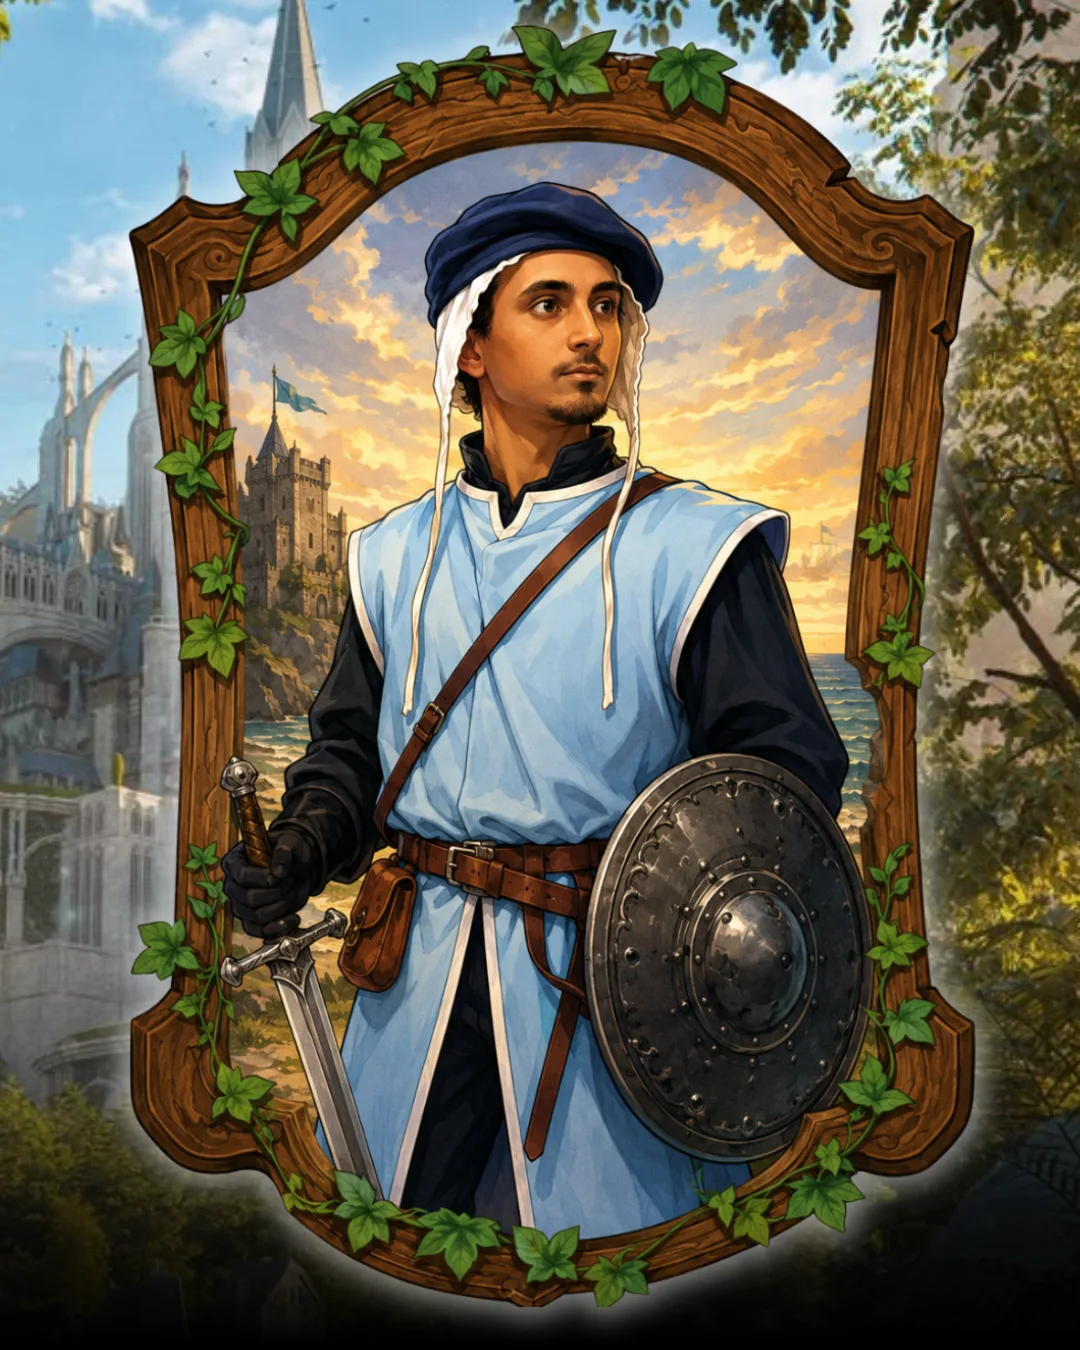
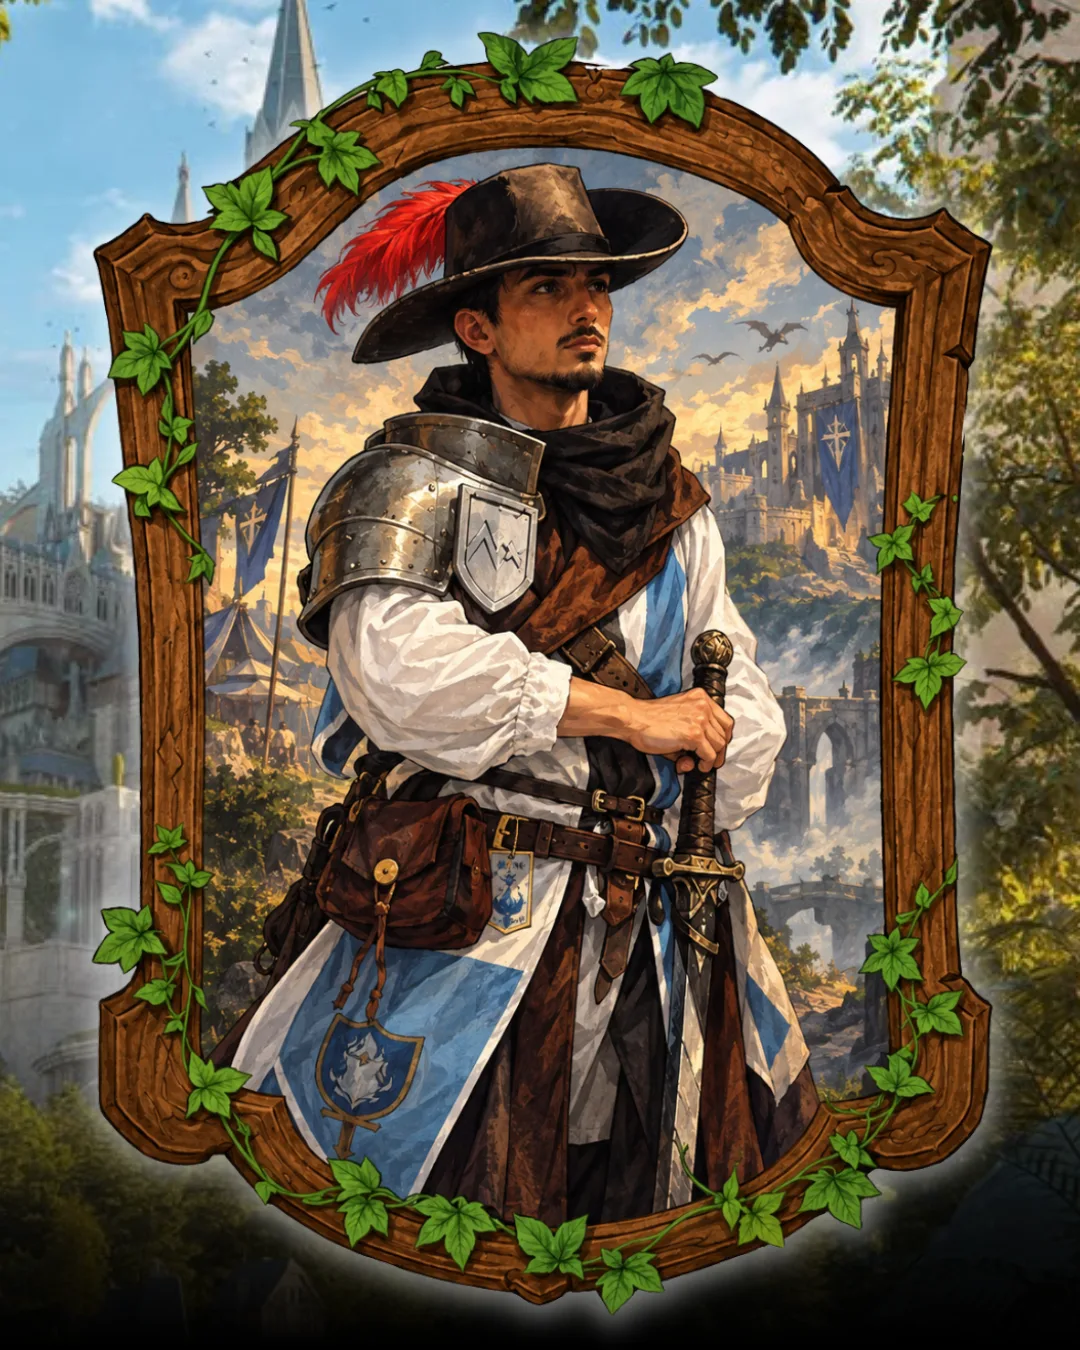
update

diff --git a/index.html b/index.html
@@ -482,6 +482,10 @@
   
   
   
+  
+  
+  
+  
   <section id="section-_recurring-characters" class="panel-section">
     <h3 class="panel-title">
       🎭 Personaggi Ricorrenti
@@ -507,7 +511,7 @@
     <img src="/rhymil_images/_thumb/other_morriver.webp?v=278d4e69" width="110" alt="John Morriver" loading="lazy" />
   </a>
 
-  <a href="/rhymil_images/_large/other_nox.webp?v=879d7c04" title="Nox" data-name="Nox" data-owner="master Bea" data-quote="Chi non supera i limiti non sa fare scienza. Continuate a vivere nell&#39;ignoranza, stolti!" data-desc="Changeling alchimista che ha preso il posto del Capitano Vane per 16 anni, prima di provare a prendere il controllo della nuova fratellanza e cadere nel tentativo. Assetato di vendetta, cinico, maniaco della perfezione e genialmente folle, ora è tornato come non-morto e collabora con Lucian Vorhan.">
+  <a href="/rhymil_images/_large/other_nox.webp?v=879d7c04" title="Nox" data-name="Nox" data-owner="master Bea" data-quote="Chi non supera i limiti non sa fare scienza. Continuate a vivere nell&#39;ignoranza, stolti!" data-desc="Changeling alchimista che ha preso il posto del Capitano Vane per 16 anni, prima di provare a prendere il controllo della nuova fratellanza e cadere nel tentativo. Assetato di vendetta, cinico, maniaco della perfezione e genialmente folle, ora è tornato come non-morto e collabora con l&#39;alchimista Rosso Lucian.">
     <span class="thumb-name">Nox</span>
     <img src="/rhymil_images/_thumb/other_nox.webp?v=faaf9fdc" width="110" alt="Nox" loading="lazy" />
   </a>
@@ -546,10 +550,19 @@
     <span class="thumb-name">Rahira</span>
     <img src="/rhymil_images/_thumb/other_rahira.webp?v=24b35703" width="110" alt="Rahira" loading="lazy" />
   </a>
+
+  <a href="/rhymil_images/_large/other_boniemme.webp?v=448d7be3" title="Lady Boniemme " data-name="Lady Boniemme " data-owner="master Jenny" data-quote="Tutti hanno un prezzo">
+    <span class="thumb-name">Lady Boniemme </span>
+    <img src="/rhymil_images/_thumb/other_boniemme.webp?v=9d968fe8" width="110" alt="Lady Boniemme " loading="lazy" />
+  </a>
     </div>
   </section>
 
 
+  
+  
+  
+  
   
   
   
@@ -807,6 +820,10 @@
   
   
   
+  
+  
+  
+  
   <section id="section-stato-del-popolo-libero" class="panel-section">
     <h3 class="panel-title">
       ✊ Stato del Popolo Libero
@@ -951,6 +968,10 @@
   
   
   
+  
+  
+  
+  
   <section id="section-terre-barbariche" class="panel-section">
     <h3 class="panel-title">
       🏺 Terre Barbariche
@@ -979,6 +1000,11 @@
   <a href="/rhymil_images/_large/tribu_gylfy.webp?v=cecf57c0" title="Gylfy Skvirodsson" data-name="Gylfy Skvirodsson" data-owner="Francesco Fava" data-quote="Chi sono io? Mmm... chi lo vuole sapere?">
     <span class="thumb-name">Gylfy</span>
     <img src="/rhymil_images/_thumb/tribu_gylfy.webp?v=0ddadd59" width="110" alt="Gylfy Skvirodsson" loading="lazy" />
+  </a>
+
+  <a href="/rhymil_images/_large/tribu_ykir.webp?v=bea5f660" title="Ykir" data-name="Ykir" data-owner="Orso" data-desc="Un barbaro con personalità multiple">
+    <span class="thumb-name">Ykir</span>
+    <img src="/rhymil_images/_thumb/tribu_ykir.webp?v=1198a383" width="110" alt="Ykir" loading="lazy" />
   </a>
   <a class="thumb-add" href="https://forms.gle/bpCPzV4x4QBi88eN8" target="_blank" rel="noopener" aria-label="Aggiungi il tuo PG">
     <span class="icon solid fa-user-plus"></span>
@@ -1025,6 +1051,10 @@
   </section>
 
           
+  
+  
+  
+  
   
   
   
@@ -1134,6 +1164,10 @@
   </section>
 
           
+  
+  
+  
+  
   
   
   
@@ -1303,6 +1337,10 @@
   
   
   
+  
+  
+  
+  
   <section id="section-ordine-dei-paladini" class="panel-section">
     <h3 class="panel-title">
       🛡 Ordine dei Paladini
@@ -1338,9 +1376,9 @@
     <img src="/rhymil_images/_thumb/paladini_delphine.webp?v=dd01b85a" width="110" alt="Delphine Belinfer" loading="lazy" />
   </a>
 
-  <a href="/rhymil_images/_large/paladini_quil.webp?v=224dcc32" title="Quil Valtheris" data-name="Quil Valtheris" data-owner="Emanuele Stramare">
+  <a href="/rhymil_images/_large/paladini_quil.webp?v=df5ca5e6" title="Quil Valtheris" data-name="Quil Valtheris" data-owner="Emanuele Stramare">
     <span class="thumb-name">Quil</span>
-    <img src="/rhymil_images/_thumb/paladini_quil.webp?v=a56fa1c6" width="110" alt="Quil Valtheris" loading="lazy" />
+    <img src="/rhymil_images/_thumb/paladini_quil.webp?v=df067429" width="110" alt="Quil Valtheris" loading="lazy" />
   </a>
   <a class="thumb-add" href="https://forms.gle/bpCPzV4x4QBi88eN8" target="_blank" rel="noopener" aria-label="Aggiungi il tuo PG">
     <span class="icon solid fa-user-plus"></span>
@@ -1417,6 +1455,10 @@
   
   
   
+  
+  
+  
+  
   <section id="section-ordine-dei-cavalieri" class="panel-section">
     <h3 class="panel-title">
       ⚔ Ordine dei Cavalieri
@@ -1440,6 +1482,16 @@
   <a href="/rhymil_images/_large/cavalieri_eryndal.webp?v=040b6ebc" title="Eryndal Thalen" data-name="Eryndal Thalen" data-owner="Offi Christopher" data-quote="La Luce mi guidi, se le mie mani tramano." data-desc="Lui era un cavaliere senza coraggio, ma con più fede di qualunque paladino. Nella paura, era guidato dalla speranza: la speranza di farcela, di resistere, di ritrovare ciò che aveva perduto lungo il cammino. Non combatteva per gloria né per onore, ma per ciò che restava in piedi quando tutto il resto crollava. Ogni sua freccia valeva più di ogni dubbio che lo attraversava, ogni respiro era una scelta, ogni passo una sfida silenziosa. E non mancava mai il bersaglio, anche se esitava a scoccare per primo, se non quando farlo significava salvare gli altri. Non era l’assenza di paura a renderlo forte, ma il fatto che, nonostante essa, continuasse ad avanzare. E forse era proprio questo che lo rendeva degno del nome di cavaliere.">
     <span class="thumb-name">Eryndal</span>
     <img src="/rhymil_images/_thumb/cavalieri_eryndal.webp?v=67145e60" width="110" alt="Eryndal Thalen" loading="lazy" />
+  </a>
+
+  <a href="/rhymil_images/_large/cavalieri_nokron.webp?v=a0912710" title="Nokron Hecate" data-name="Nokron Hecate" data-owner="Francesco Antoniazzi" data-quote="Con queste mani salvo vite, ma so fare anche altro con esse." data-desc="Nokron é un cavaliere nato a Navimbur, ma che si é dovuto trasferire dopo i fatti che hanno coinvolto la città. Nokron é un cavaliere dal cuore d&#39;oro e fa il possibile per aiutare gli altri, inoltre é alla ricerca del suo fratellino disperso a Navimbur durante la fuga dalla città. Inoltre é molto socievole ed é sempre disponibile, basta solo non chiedere nulla sulla cicatrice nell&#39;occhio sinistro!">
+    <span class="thumb-name">Nokron</span>
+    <img src="/rhymil_images/_thumb/cavalieri_nokron.webp?v=5cda80c6" width="110" alt="Nokron Hecate" loading="lazy" />
+  </a>
+
+  <a href="/rhymil_images/_large/cavalieri_elaides.webp?v=dd0e397e" title="Elaidés Valeriàn" data-name="Elaidés Valeriàn" data-owner="Andrea Stabile" data-quote="Noi cavalieri non siamo pedine o soldati, ma persone di buon cuore che hanno giurato di difendere chi ne ha bisogno" data-desc="El è un neo-cavaliere erodita ed aspirante alchimista della via rossa. Originario di Navimbur, ha nutrito fin da piccolo una passione per l&#39;alchimia, nata dai libri regalati dallo zio John e dal mescolare coi propri amici le spezie alchemiche del padre Nicolas (borghese e mercante ereditiero). È stato istruito nell&#39;arte della medicina e della spada dalla madre Maria, ex cavaliera. Ora ha seguito le orme della madre ed è nell&#39;ordine al quale contribuirà con la propria passione alchemica, avendo anche l&#39;occasione di coltivarla grazie ai numerosi alchimisti presenti nella spedizione. Ha una natura molto curiosa e gli piace molto sperimentare, insegue la verità e crede che la vita di ogni essere vivente sia preziosa e che faccia parte di un ciclo, pensa che i morti non se ne facciano niente dell&#39;onore e che il vero onore è per coloro che fanno scelte pesanti per mantenere l&#39;equilibrio su Rymil.">
+    <span class="thumb-name">Elaidés</span>
+    <img src="/rhymil_images/_thumb/cavalieri_elaides.webp?v=b406fda3" width="110" alt="Elaidés Valeriàn" loading="lazy" />
   </a>
   <a class="thumb-add" href="https://forms.gle/bpCPzV4x4QBi88eN8" target="_blank" rel="noopener" aria-label="Aggiungi il tuo PG">
     <span class="icon solid fa-user-plus"></span>
@@ -1526,6 +1578,10 @@
   
   
   
+  
+  
+  
+  
   <section id="section-fratellanza-dei-pirati" class="panel-section">
     <h3 class="panel-title">
       🏴☠ Nuova Fratellanza dei Pirati
@@ -1564,6 +1620,11 @@
   <a href="/rhymil_images/_large/pirati_coragon.webp?v=ca946e4c" title="Coragon scullion" data-name="Coragon scullion" data-owner="Alberto Manega">
     <span class="thumb-name">Coragon</span>
     <img src="/rhymil_images/_thumb/pirati_coragon.webp?v=101c913c" width="110" alt="Coragon scullion" loading="lazy" />
+  </a>
+
+  <a href="/rhymil_images/_large/pirati_belladonna.webp?v=ad5fbaf1" title="Belladonna" data-name="Belladonna" data-owner="Angela" data-quote="Un uomo morto non puo diventare una persona migliore" data-desc="Adora mangiare pesce e collezzionare pietre preziose, gemme varie e minerali con cui si adorna come una seconda pelle,  diffidente quasi con tutti ma affezzionata ai suoi amici che li vede come famiglia (simili ad un tesoro), sempre convinta che tutte le persone possono redimersi a prescindere che siano buone o cattive.">
+    <span class="thumb-name">Belladonna</span>
+    <img src="/rhymil_images/_thumb/pirati_belladonna.webp?v=e6efb1a7" width="110" alt="Belladonna" loading="lazy" />
   </a>
   <a class="thumb-add" href="https://forms.gle/bpCPzV4x4QBi88eN8" target="_blank" rel="noopener" aria-label="Aggiungi il tuo PG">
     <span class="icon solid fa-user-plus"></span>
